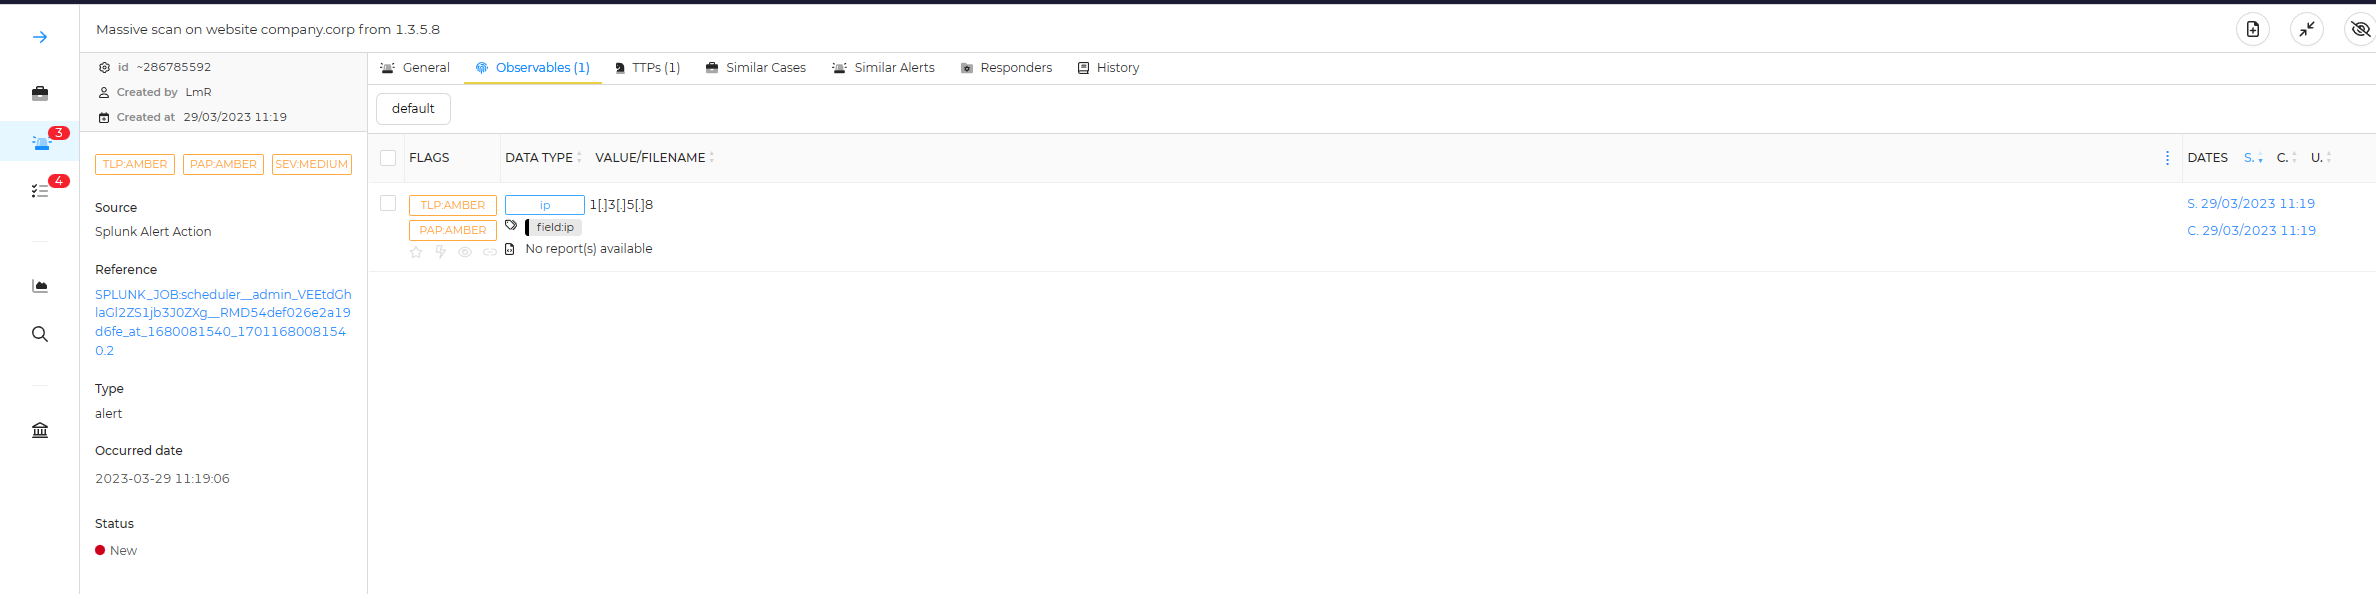
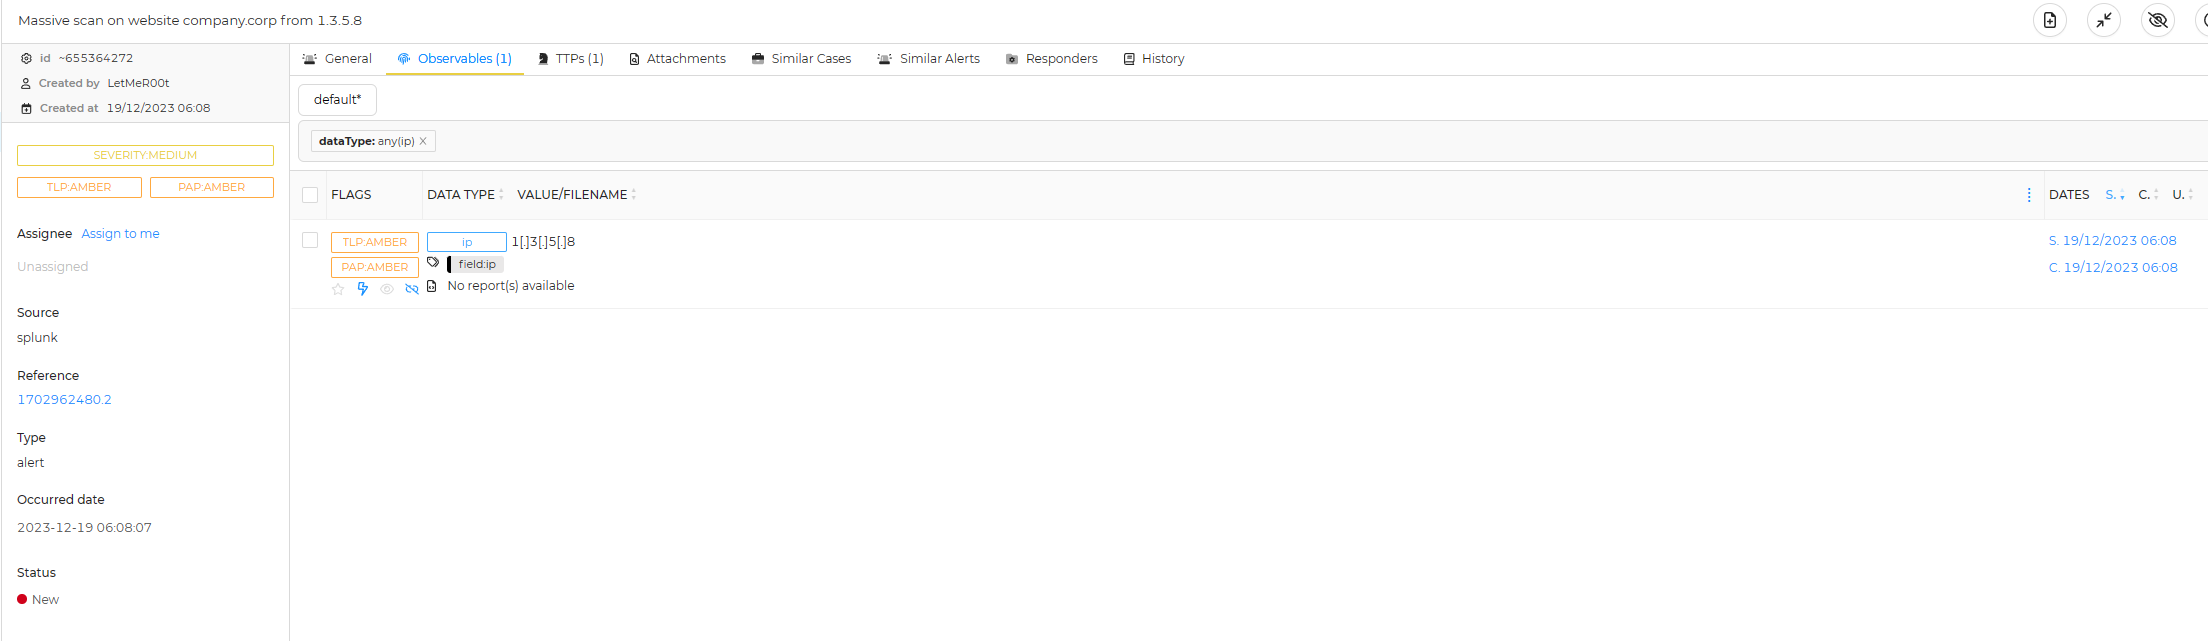
feat: #79 - Refine the way to provide additional information to observables from the search

diff --git a/TA-thehive-cortex/bin/ta_thehive_cortex/modalert_thehive_common.py b/TA-thehive-cortex/bin/ta_thehive_cortex/modalert_thehive_common.py
@@ -183,7 +183,6 @@ def parse_events(helper, thehive: TheHive, configuration: Settings, alert_args):
         # Initialize values
         observables = []
         ttps = []
-        observableTags = []
         observableMessage = ''
         customFields = []
         events = []
@@ -201,7 +200,7 @@ def parse_events(helper, thehive: TheHive, configuration: Settings, alert_args):
         helper.log_debug("[CAA-THC-62] Row after pre-processing: " + str(row))
 
         # Define thehive alert unique ID (if duplicated, alert creations fails)
-        if ("alert_mode" in alert_args and alert_args["alert_mode"] == "es_mode") or ("case_mode" in alert_args and alert_args["case_mode"] == "es_mode"):
+        if ("alert_mode" in alert_args and alert_args["alert_mode"] == "es_mode" and alert_args['unique_id_field'] not in row) or ("case_mode" in alert_args and alert_args["case_mode"] == "es_mode"):
             # Check if it's coming from Splunk ES
             if "event_id" in row:
                 sourceRef = row["event_id"]
@@ -224,20 +223,6 @@ def parse_events(helper, thehive: TheHive, configuration: Settings, alert_args):
             sourceRef = sourceRef[0:127]
 
         helper.log_debug("[CAA-THC-64] sourceRef: {} ".format(sourceRef))
-
-        if 'th_inline_tags' in row:
-            del row_sanitized["th_inline_tags"]
-            # grabs that field's value and assigns it to
-            observableTags = list(str(row.pop("th_inline_tags")).split(","))
-
-        # check if the field th_msg exists and strip it from the row.
-        # The value will be used as message attached to observables
-        if 'th_msg' in row:
-            del row_sanitized["th_msg"]
-            # grabs that field's value and assigns it to
-            observableMessage = str(row.pop("th_msg"))
-            helper.log_debug("[CAA-THC-75] observable message: {} ".format(observableMessage))
-            helper.log_debug("[CAA-THC-76] observable tags: {} ".format(observableTags))
 
         # check if observables have been stored for this sourceRef.
         # If yes, retrieve them to add new ones from this row
@@ -330,31 +315,40 @@ def parse_events(helper, thehive: TheHive, configuration: Settings, alert_args):
         else:
             alert['timestamp'] = alert_args['timestamp']
 
+        observables_data = dict()
         # now we take those KV pairs to add to dict
         for key, value in row.items():
-            cTags = observableTags[:]
             if value != "":
                 helper.log_debug('[CAA-THC-90] field to process: {}'.format(key))
-                observable_key = ''
-                cTLP = ''
                 if ':' in key:
-                    helper.log_debug('[CAA-THC-91] composite fieldvalue: {}'.format(key))
-                    dType = key.split(':', 1)
-                    key = str(dType[0])
-                    # extract TLP at observable level
-                    # it is on letter W G A or R appended to field name
-                    observable_tlp_check = re.match("^(W|G|A|R)$", str(dType[1]))
-                    if observable_tlp_check is not None:
-                        cTLP = TLP[dType[1]]
-                        cTags.append(TLP[str(cTLP)])
-                    else:
-                        cTags.append(str(dType[1]).replace(" ", "_"))
-                if key in data_type:
+                    helper.log_debug('[CAA-THC-91] composite fieldvalue detected: {}'.format(key))
+                    del row_sanitized[key]
+                    # Extract information
+                    compositekey = key.split(':', 1)
+                    mainkey = str(compositekey[0])
+                    subkey = str(compositekey[1])
+                    # Check if it's a specific datatype or not
+                    if mainkey in data_type:
+                        # This is a datatype, so we use the subkey to add information about an observable
+                        observable_datatype = data_type[mainkey]
+                        if mainkey not in observables_data:
+                            observables_data[mainkey] = {str(subkey): value, "datatype": observable_datatype}
+                        else:
+                            observables_data[mainkey][str(subkey)] = value
+                            observables_data[mainkey]["datatype"] = observable_datatype
+                    helper.log_debug('[CAA-THC-92] field: {} enriched with the information {} set to '.format(mainkey,subkey,value))
+                elif key in data_type:
                     # Check if observables must be kept in the sanitized results or not
                     if not alert_args["description_results_keep_observable"]:
                         del row_sanitized[key]
                     helper.log_debug('[CAA-THC-95] key is an observable: {} '.format(key))
-                    observable_key = data_type[key]
+                    # Given value of the row is the value of the datatype
+                    observable_datatype = data_type[key]
+                    if key not in observables_data:
+                        observables_data[key] = {"value": value, "datatype": observable_datatype}
+                    else:
+                        observables_data[key]["value"] = value
+                        observables_data[key]["datatype"] = observable_datatype
                 elif key in custom_fields:
                     del row_sanitized[key]
                     custom_type = custom_fields[key]["type"]
@@ -398,9 +392,6 @@ def parse_events(helper, thehive: TheHive, configuration: Settings, alert_args):
                             custom_field["value"] = int(value) * 1000
                     if custom_field_check is True:
                         customFields += [custom_field]
-                elif alert_args['scope'] is False:
-                    helper.log_debug('[CAA-THC-105] key is added as another observable (scope is False): {}'.format(key))
-                    observable_key = 'other'
                 elif key == "ttp":
                     del row_sanitized["ttp"]
                     # Expected pattern is: tactic::patternId::occurDate
@@ -420,35 +411,47 @@ def parse_events(helper, thehive: TheHive, configuration: Settings, alert_args):
                             helper.log_debug('[CAA-THC-109] ttp already exist, ignoring duplicates: {}'.format(value))
                     else:
                         helper.error('[CAA-THC-110-ERROR] ttp field was detected but malformed, expected one value with the pattern \"tactic::patternId::occurDate\" with occurDate as \"YYYY-mm-dd\", got: {}'.format(value))
-
-
-                if observable_key not in [None, '']:
-                    helper.log_debug("[CAA-THC-111] Processing observable key: " + str(observable_key) + " (" + str(value) + ") (" + observableMessage + ")")
-                    cTags.append('field:' + str(key))
-                    if isinstance(value,list) :  # was a multivalue field
-                        helper.log_debug('[CAA-THC-112] value is not a simple string: {} '.format(value))
-                        for val in value:
-                            if val != "":
-                                observable = dict(dataType=observable_key,
-                                                data=str(val),
-                                                message=observableMessage,
-                                                tags=cTags
-                                                )
-                                if cTLP != '':
-                                    observable['tlp'] = cTLP
-                                helper.log_debug("[CAA-THC-113] new observable is {}".format(observable))
-                                if observable not in observables:
-                                    observables.append(observable)
+                elif alert_args['scope'] is False:
+                    helper.log_debug('[CAA-THC-105] key is added as another observable (scope is False): {}'.format(key))
+                    # Given value of the row is the value of the datatype
+                    observable_datatype = data_type[key]
+                    if key not in observables_data:
+                        observables_data[key] = {"value": value, "datatype": "other"}
                     else:
-                        observable = dict(dataType=observable_key,
-                                        data=str(value),
-                                        message=observableMessage,
-                                        tags=cTags
-                                        )
-                        if cTLP != '':
-                            observable['tlp'] = cTLP
-                        if observable not in observables:
-                            observables.append(observable)
+                        observables_data[key]["value"] = value
+                        observables_data[key]["datatype"] = "other"
+
+        # Process all observables
+        if len(observables_data) > 0:
+            for field, data in observables_data.items():
+                helper.log_debug("[CAA-THC-111] Processing observable data: {} ({})".format(field, observables_data[field]))
+                obs_datatype = data["datatype"] if "datatype" in data else "other"
+                obs_data = data["value"]
+                obs_message = data["description"] if "description" in data else "No description provided for this observable"
+                obs_tags = data["tags"].split(",") if "tags" in data else []
+                obs_tlp = TLP[data["tlp"]] if "tlp" in data else TLP["AMBER"]
+                obs_pap = PAP[data["pap"]] if "pap" in data else PAP["AMBER"]
+                obs_is_ioc = bool(data["is_ioc"]) if "is_ioc" in data else False
+                obs_sighted = bool(data["sighted"]) if "sighted" in data else False
+                obs_sighted_at = int(float(data["sighted_at"])*1000) if "sighted_at" in data else None
+                obs_ignore_similarity = bool(data["ignore_similarity"]) if "ignore_similarity" in data else False
+
+                # Add the field in the tags
+                obs_tags += ["field:"+field]
+
+                observable = dict(dataType=obs_datatype,
+                                data=obs_data,
+                                message=obs_message,
+                                tags=obs_tags,
+                                tlp=obs_tlp,
+                                pap=obs_pap,
+                                ioc=obs_is_ioc,
+                                sighted=obs_sighted,
+                                sightedAt=obs_sighted_at,
+                                ignoreSimilarity=obs_ignore_similarity
+                                )
+                if observable not in observables:
+                    observables.append(observable)
 
         if observables:
             alert['observables'] = [InputObservable(o) for o in observables]

diff --git a/docs/alert_actions_and_adaptive_response.md b/docs/alert_actions_and_adaptive_response.md
@@ -33,12 +33,10 @@
   - [Tips \& Tricks](#tips--tricks)
     - [How to fill in form fields](#how-to-fill-in-form-fields)
     - [Alert overall description](#alert-overall-description)
-    - [Manage fields to become observable, enrich the alert with inline fields](#manage-fields-to-become-observable-enrich-the-alert-with-inline-fields)
+    - [Manage fields to become observables](#manage-fields-to-become-observables)
       - [Here some precisions](#here-some-precisions)
       - [Use fields to provide values for the alert](#use-fields-to-provide-values-for-the-alert)
-      - [Custom TLP per observable](#custom-tlp-per-observable)
-      - [Inline tag(s)](#inline-tags)
-    - [Advanced search results with additional tags](#advanced-search-results-with-additional-tags)
+      - [Composite fields (used for observables information)](#composite-fields-used-for-observables-information)
 
 # Introduction
 
@@ -114,16 +112,16 @@ Input:
 
 ```text
 | makeresults
-| eval ip="5.6.7.8", ttp="reconnaissance::T1595.001::"+tostring(strftime(now(),"%Y-%m-%d")), unique=tostring(now())+".1"
-| table ip, ttp, unique
+| eval ip="5.6.7.8", "ip:description" = "another description for this specific ip", "ip:tags" = "hello,world", ttp="reconnaissance::T1595.001::"+tostring(strftime(now(),"%Y-%m-%d")), unique=tostring(now())+".1"
+| table ip, "ip:description", "ip:tags", ttp, unique
 | append
     [| makeresults
-| eval ip="1.2.3.4", ttp="reconnaissance::T1593.002::"+tostring(strftime(now(),"%Y-%m-%d")), unique=tostring(now())+".1"
-| table ip, ttp, unique]
+| eval ip="1.2.3.4", ttp="reconnaissance::T1593.002::"+tostring(strftime(now(),"%Y-%m-%d")), unique=tostring(now())+".1", "ip:tlp" = "GREEN", "ip:pap" = "RED", "ip:is_ioc" = 1
+| table ip, "ip:tlp", "ip:pap", "ip:is_ioc", ttp, unique]
 | append
     [| makeresults
-| eval ip="1.3.5.8", ttp="reconnaissance::T1593.002::"+tostring(strftime(now(),"%Y-%m-%d")), unique=tostring(now())+".2"
-| table ip, ttp, unique]
+| eval ip="1.3.5.8", "ip:description" = "description for this ip", ttp="reconnaissance::T1593.002::"+tostring(strftime(now(),"%Y-%m-%d")), unique=tostring(now())+".2", "ip:sighted" = 1, "ip:sighted_at" = relative_time(now(),"-6h"), "ip:ignore_similarity" = 1
+| table ip, "ip:description", "ip:sighted", "ip:sighted_at", "ip:ignore_similarity", ttp, unique]
 | eventstats values(ip) as all_ip by unique
 | eval all_ip = mvjoin(all_ip,", ") 
 | eval name = "Massive scan on website company.corp from "+all_ip, cert-alerted-on=now(), risk="Medium", info="A custom info added to the event"
@@ -131,6 +129,8 @@ Input:
 ```
 
 > Please note that the field "all_ip" is used to build the title but will not be taking into account by the script as it's not a relevant field (not a custom field nor an observable or a reserved named field for TheHive). However, the option to append the results was selected and a table will be added to the description containing this information.
+
+> You'll notice the usage of composite fields (using colons) in this example. This is used to add more information about the observables.
 
 Output:
 
@@ -152,6 +152,9 @@ Output:
 ![UC2 - TheHive alert 5](images/../../images/uc2_thehive5.png)
 ![UC2 - TheHive alert 6](images/../../images/uc2_thehive6.png)
 ![UC2 - TheHive alert 7](images/../../images/uc2_thehive7.png)
+![UC2 - TheHive alert 8](images/../../images/uc2_thehive8.png)
+![UC2 - TheHive alert 9](images/../../images/uc2_thehive9.png)
+![UC2 - TheHive alert 10](images/../../images/uc2_thehive10.png)
 
 Alternative output could be, with the same configuration but without keeping the observables in the sanitized table provided in the description as is:
 
@@ -162,7 +165,7 @@ Alternative output could be, with the same configuration but without keeping the
 ### TheHive screenshots
 
 ![UC2 - TheHive alert Alt 2](images/../../images/uc2_thehive2_alt.png)
-![UC2 - TheHive alert Alt 5](images/../../images/uc2_thehive5_alt.png)
+![UC2 - TheHive alert Alt 5](images/../../images/uc2_thehive6_alt.png)
 
 ## UC3: Correlation Search - One single case
 
@@ -268,7 +271,7 @@ Output:
 | Tags | This is used to indicate the tags of an alert/case | Tags are defined in the savedsearch configuration with three tags separated by a comma (malicious,external,steganography) | Same as UC1 (even if the tags aren't accurate, it was more for an example) | Tag is defined in the correlation search configuration (cloud) | No tag was provided in the Adaptive Response |
 | Custom fields | This is used to define custom fields in TheHive for alerts/cases. **Note**: Custom fields information are retrieved from an API call at each execution | Two custom fields are given the results directly using the field name as the name of the custom field and the field value as the custom field value (in this example, `cert-alerted-on` and `risk`) | Same as UC1 (we could have different custom fields by alert) | Same as UC1 | Same as UC1 |
 | Tasks | This indicates the tasks of a case | No task in alerts | Same as UC1 | Tasks can't be created from events, you shoudl rely on the "`CaseTemplate`" savedsearch/correlation search parameter instead to define which case template (that will contains the tasks) you want to use | Same as UC3 |
-| Observables | This is used to define observables in alerts/cases | There are built from the results with name of the field as the type of the observable and the field value as the value of the observable (here 3 observables: ip, fqdn and hash). There is only one alert from these two events as it's the same `unique` value which is used by the savedsearch configuration to separate alerts | Same as UC1 except that we have two dedicated alerts (one with one IP, one with two IPs) because the `unique` field is different | Same as UC1 except that we have two observables (one other, one hostname) | Same as UC3 |
+| Observables | This is used to define observables in alerts/cases | There are built from the results with name of the field as the type of the observable and the field value as the value of the observable (here 3 observables: ip, fqdn and hash). There is only one alert from these two events as it's the same `unique` value which is used by the savedsearch configuration to separate alerts | Same as UC1 except that we have two dedicated alerts (one with one IP, one with two IPs) because the `unique` field is different. You can see an example of how you can enrich your observables information from the splunk search using composite fields (with colons) | Same as UC1 except that we have two observables (one other, one hostname) | Same as UC3 |
 | TTPs | This is used to indicate which TTPs are linked to alerts/cases | This is built from the events with the field named "ttp" which is having a string with 3 information (tactic, pattern ID and the occur date, all three mandatory) separated by two colons, here two TTPs for the same alert | Same as UC1 except we have 2 TTPs in one alert and 1 TTP in another alert | No TTP is provided from the events and as the correlation search is sending the events directly to the script as a savedsearch does, we don't have any information about the configured TTPs | TTPs are recovered from the notable event created that is having the list of TTPs linked to the correlation search. Those TTPs are automatically created from those information |
 
 
@@ -308,7 +311,7 @@ In this example, alert title will be the value of field `myfield` from result se
 - TLP: Change the TLP of the created alert. Default is TLP:AMBER
 - PAP: Change the PAP of the created alert. Default is PAP:AMBER
 
-### Manage fields to become observable, enrich the alert with inline fields
+### Manage fields to become observables
 
 #### Here some precisions
 
@@ -329,48 +332,36 @@ In the alert form, you can specify a field name instead of a static string for f
 
 **IMPORTANT** fields used to set timestamp, description or title are not removed from results set and pushed to TheHive as artifact or custom fields.
 
-#### Custom TLP per observable
+#### Composite fields (used for observables information)
 
-If you want to set a different TLP level than the one set for the alert, append to the field name
-    - :R for TLP:RED
-    - :A for TLP:AMBER
-    - :G for TLP:GREEN
-    - :W for TLP:WHITE
+Within your search, you can specify composite fields. A composite field is a field containing a colon (:) used to separate a main key and a subkey such as `main key:subkey`. For instance, the composite field `ip:description` has a main key set to `ip` and a subkey set to `description`. 
 
-```text
-For example if you rename src field as "src:R", then this observable will be set with TLP:RED whatever is the TLP level for the alert.
-```
+Those composite fields are used to enrich the observables information such as TLP, PAP, description etc. The `main key` shall be the field name of an observable defined in the thehive_datatype.csv lookup (datatype for the field will be deduce from this lookup) when the `subkey` shall be representing the information that you want to set.
 
-#### Inline tag(s)
+UC2 is showing a good example of how to use composite fields, here is the list of the possibilities:
 
-1 additional field can be used inline:
+- `<field>`: Indicates the name of the field containing the observable with the value set to it (such as `ip = 1.2.3.4` or `hostname = test.mydomain`)
+- `<field>:description`: Indicates the description for the provided observable `<field>`
+- `<field>:tlp`: Indicates the TLP for the provided observable `<field>`. For TLP, you can set the value the same way as the alert/case
+- `<field>:pap`: Indicates the PAP for the provided observable `<field>`. For PAP, you can set the value the same way as the alert/case
+- `<field>:tags`: Indicates the tags for the provided observable `<field>`. This shall be a string with the tags separated by a comma.
+- `<field>:is_ioc`: Indicates if the provided observable `<field>` is considered as an IOC. This shall be a string set to 0 (FALSE) or 1 (TRUE).
+- `<field>:sighted`: Indicates if the provided observable `<field>` was sighted. This shall be a string set to 0 (FALSE) or 1 (TRUE).
+- `<field>:sighted_at`: Indicates when the provided observable `<field>` was sighted This shall be string representing a UNIX timestamp.
+- `<field>:ignore_similarity`: Indicates if the provided observable `<field>` should be ignored regarding the similarities with other alerts/cases. This shall be a string set to 0 (FALSE) or 1 (TRUE).
 
-- th_inline_tags: if field **th_inline_tags** exists, then the list of tags (comma-separated string) is added to the observables taken from that row.  
-- A final tips to add specific tags to a field is to rename the field to append a text after a ":". For example, to add tag "C2 server" to an ip used this syntax (this option is not possible if you use custom TLP level).
+In order to be explicit on the usage, here is an example of the composite fields:
 
-```text
-| rename ip as "ip:C2 server"
-```
+> ⚠ In this example, we consider that the field is named `src_ip` and the datatype defined in the thehive_datatype.csv lookup for this field is `ip`.
 
-In conclusion, the tags attached to each observable are field name, specific tags (using :), inline_tags and tags from the alert form
-
-### Advanced search results with additional tags
-
-1. add to your search a field th_inline_msg. Tags defined in that field will be attached to each artifact
-2. rename the field to include a tag section using the syntax "a dataType:some tag". the field name will be split on first ":" and the second part added to the list of tags
-
-You can try the following dummy search to illustrate this behaviour.
-
-```text
-index=_* 
-| streamstats count as rc 
-| where rc < 4
-| eval "ip:APTxx"="1.1.1."+rc 
-| eval domain="www.malicious.com" 
-| eval th_inline_tags="C2,Campaign1234,PAP:AMBER"
-| eval src=10.11.12.13 
-| rename src as "src:R"
-| eval playbook = "playbook title"
-| eval hash:md5="f3eef6f636a08768cc4a55f81c29f347"
-| table "ip:APTxx" hash:md5 domain "src:R" playbook th_inline_tags
-```
+| Field | Value | Main key | Subkey | Description
+|---|---|---|---|---|
+| src_ip | 1.2.3.4 | src_ip | (None) | This field is used to define the value of the ip, such as "1.2.3.4" |
+| src_ip:description | My custom description | src_ip | description | This field is used to define a description for the observable "1.2.3.4", such as "My custom description" |
+| src_ip:tlp | AMBER | src_ip | tlp | This field is used to define the TLP for the observable "1.2.3.4" such as "AMBER" |
+| src_ip:pap | 1 | src_ip | pap | This field is used to define the PAP for the observable "1.2.3.4", such as "1" (GREEN) |
+| src_ip:tags | hello,world| src_ip | tags | This field is used to define the tags for the observable "1.2.3.4", such as "hello" and "world" (tags are split by a comma) |
+| src_ip:is_ioc | 0 | src_ip | is_ioc | This field is used to define if the observable "1.2.3.4" is considered as an IOC, such as "0" (FALSE) |
+| src_ip:sighted | 0 | src_ip | sighted | This field is used to define if the observable "1.2.3.4" was sighted, such as "0" (FALSE) |
+| src_ip:sighted_at | 1702940801 | src_ip | sighted_at | This field is used to define when the observable "1.2.3.4" was sighted, such as "1702940801" (Monday 18 December 2023 23:06:41) |
+| src_ip:ignore_similarity | 0 | src_ip | ignore_similarity | This field is used to define if the observable "1.2.3.4" need to be ignored with similarities in other alerts/cases, such as "0" (FALSE) |
